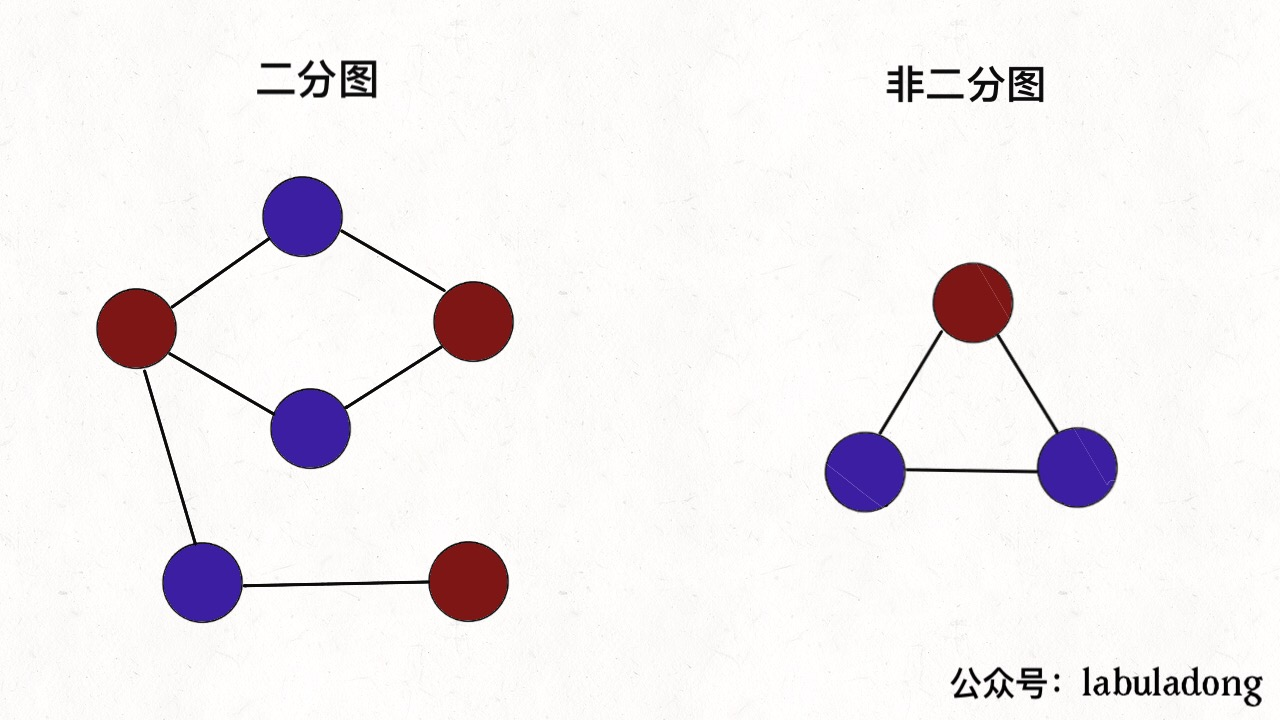
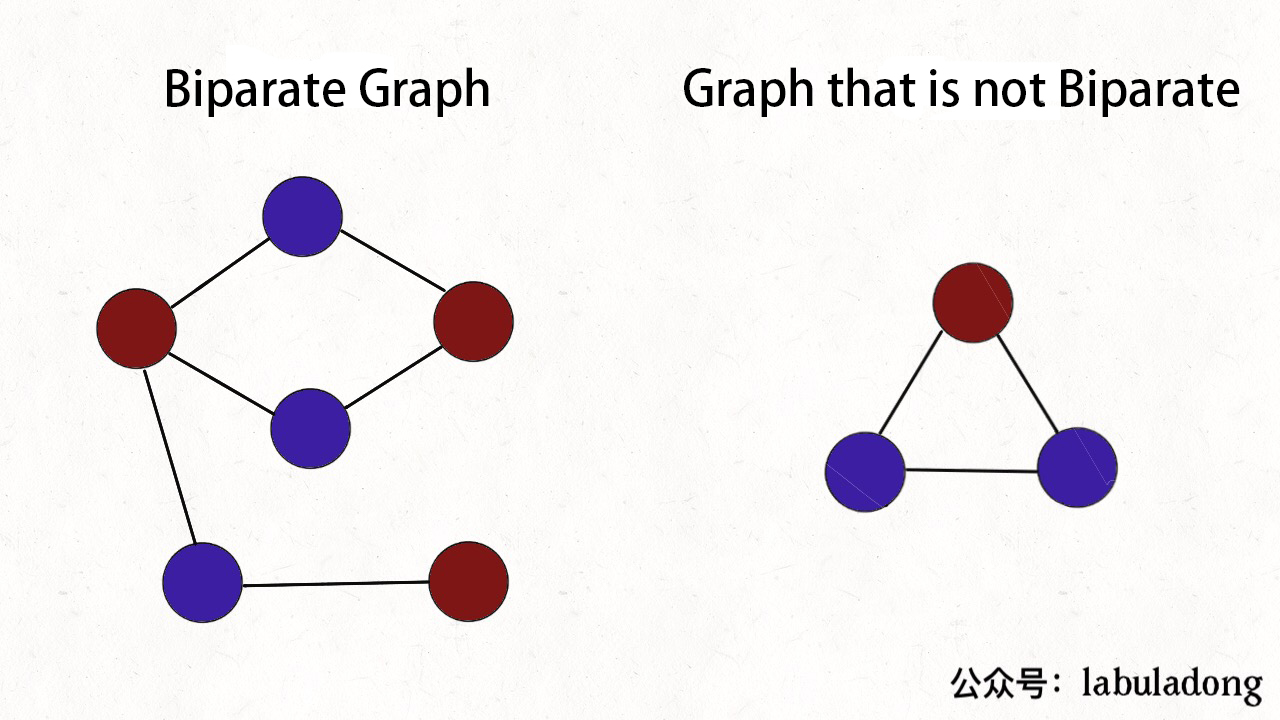
#171 tranlated: think_like_computer/为什么推荐算法4.md

Changed region(s): [[0.5312, 0.0917, 0.9688, 0.1528], [0.125, 0.0611, 0.4062, 0.1528]]

diff --git a/think_like_computer/why_i_recommend_algs4.md b/think_like_computer/why_i_recommend_algs4.md
@@ -1,0 +1,77 @@
+# Why I Recommend _Algorithms, 4th Edition_
+
+**Translator: [natsunoyoru97](https://github.com/natsunoyoru97)**
+
+**Author: [labuladong](https://github.com/labuladong)**
+
+My previous articles are mainly about hardcore algorithms, but I'll no more talk about them today. I have highly recommended _Algorithms, the 4th Edition_ (alias alg4) before in my previous articles but without explanation in details, so I'll introduce it to you.
+
+I prefer to combine with applications rather than to throw out a pile of bibliography. I'll show you something fun and useful so you could learn something no matter you will read the book or not.
+
+**_Algorithms, the 4th Edition_ IS FRIENDLY WITH NEWBIES**. There are so many readers asking questions like can they read alg4 with only C programming basics, and what is the best programming language to learn algorithms.
+
+
+Algorithms are patterns of thinking and it is nothing about what programming language you use. My codes in the articles are not in only one programming language, and it is more about by what programming language is easier for you to understand. Plus, you can get a digital copy (say, a PDF file) and then you will know it is suitable for you or not.
+
+algs4 is thick but the first chapter is about Java basics, practices and mathematical proofs are also take up lots of pages. All the things left are basic knowledge and answers for things hard to understand, which are of great value. If you write up the codes of basic knowledge, you will be good in algorithms.
+
+I think this book is highly rated because of its in-detail explanation and combination between algorithms and applications in life. Not only do you know how to construct algorithms, but also you know how you can apply them to solve other problems in real life. Then I'll introduce two simple applications of graph algorithms:  
+
+
+### 1. Applications of Bipartite Graph
+
+The first example is **bipartite Graph**. In brief, the bipartite graph is a special kind of graph: you can paint all nodes with two colors, and the colors are different between ANY two nodes in one edge.
+
+![](../pictures/algo4/1.jpg)
+
+As we know what is a bipartite graph, what practical problems can it deal with? **In algorithms, it is usual to determine a graph is a bipartite graph or not**. For example, here is a practice in LeetCode:
+
+![](../pictures/algo4/title.png)
+
+If we regard every person as a node and use the edges represent if two persons hate with each other, we can make a graph. Thus,  according to the definition of the bipartite graph mentioned before, if the graph is bipartite, these persons can be split into two groups.
+
+This is one application of algorithms in determining a bipartite graph, and bipartite graph can do more of this. bipartite graph, as a kind of data structure, also has its special application.
+
+For example, we need a kind of data structure to store the relations between movies and actors: a movie has many actors, and an actor is possible to star in many movies. What kind of data structure do you apply to store the relation?
+
+As what we do is to store the mapping, the most simple way is to apply a hash table, so we could use the `HashMap<String, List<String>>` to store the mapping from movies to the actor list. Given the name of a movie, we will get all the actors starred in this movie quickly.
+
+But what do we do if we would like to get all the movies an actor stars in given his or her name? We need to apply inverted index, make some modification of the hash table, to build another hash table using the actors as the key and movie list as the value.
+
+For this example, we can apply the bipartite graph instead of the hash table. Relation between movies and actors is like a bipartite graph: we regard movies and actors as nodes in the graph, relation of acting the role as edges, thus there is only connections between actors and movies, and there is no case that an actor node connects to another actor node or a movie node connects to another movie node.
+
+By the definition of the bipartite graph, if we paint actor nodes and movie nodes, there must be a bipartite graph:
+
+![](../pictures/algo4/2.jpg)
+
+If the graph is constructed, there is no need to do an inverted index. One actor node only connects to a movie node, and a movie node only connects to an actor node.
+
+algs4 also mentioned some other fun applications, such as degrees of separation in the social network (maybe you have heard about Six Degrees of Separation), it is a problem of applying BFS searching to find the shortest path, I just skip the code here.
+
+### 2. Arbitrage with Bellman-Ford Algorithm
+
+Given the exchange rate from a currency A to another currency B is 10, which means 1 unit of currency A can exchange 10 units of currency B. If we regard every currency as a node of the graph and the exchange rate between two currencies is weighted directed edge, the whole foreign exchange rate market is a complete weighted directed graph.
+
+Once we abstract scenarios in real life to a graph, it is possible to solve some problems using algorithms. For example, such a situation may exist in the graph:
+
+![](../pictures/algo4/3.jpg)
+
+The weighted directed edges in the graph represent the exchange rate, we can find that if we exchange 100 units of currency A to currency B, continue exchanging to currency C, and exchange back to currency A, we could get 100×0.9×0.8×1.4 = 100.8 units of currency A! Provided the amount in a deal is larger, we could get a great amount of money. Such behavior getting the most bang for the buck is so-called arbitrage.
+
+There are lots of restrictions in the reality, the market is also changing rapidly, but the profit of arbitrage is high. The key is how to find such chances **RAPIDLY**.
+
+With help of the graph ADT, we found that the chance of arbitrage is a cycle, and the multiples of all weights in the cycle are above 1, we could make the most bang for the buck if we make the deal in the cycle.
+
+There is a typical graph algorithm called **the Bellman-Ford algorithm**, which can be applied **to find cycles with negative weights**. To deal with the problem of arbitrage, we can substitute the weights of all edges w to -ln(w), then the target to find the cycle in which the multiples of weights is above 1 becomes to find the cycle in which the sum of the addition of weights, so we can apply the Bellman-Ford algorithm to find cycle including negative weights in O(EV) time, thus to find the chance of arbitrage.
+
+The explanation of contents of alg4 is over here. You can read the relevant content in alg4. 
+
+### 3. The Final Word
+
+First things first, I have mentioned we can skip the mathematical proofs and practices behind the chapters. Someone may ask: Are these practices and proofs NOT IMPORTANT?
+
+I would like to say, they ARE not important at least for most people. In my opinion, it is better to learn with goals. For most people, they learn algorithms just out of reviewing the computer basics and coping with questions in interviews. **If it is your goal**, what you have to do is to learn some basic data structures and typical algorithms, to make sense of their time complexity and practice. Why you have to struggle with practices and proofs?
+
+This is the reason why I NEVER recommend you to read CLRS (alias _Introduction to Algorithms_). If someone recommends this book for you, it is only out of two reasons: he/she is a big cheese or he/she is pretending to be a big cheese. There are tons of mathematical proofs and many ADTs mentioned are rarely used, which you can only make it a reference. Just forgive yourself and stop to learn that useless stuff. 
+
+Plus, it is more important to master the essence rather than to scan through pages. Spending your time on reading algs4 and make through of most chapters (things are rather difficult in the last), reading the articles in this repository. If you did all of these, it is enough. Don't be torn on trivial things.
